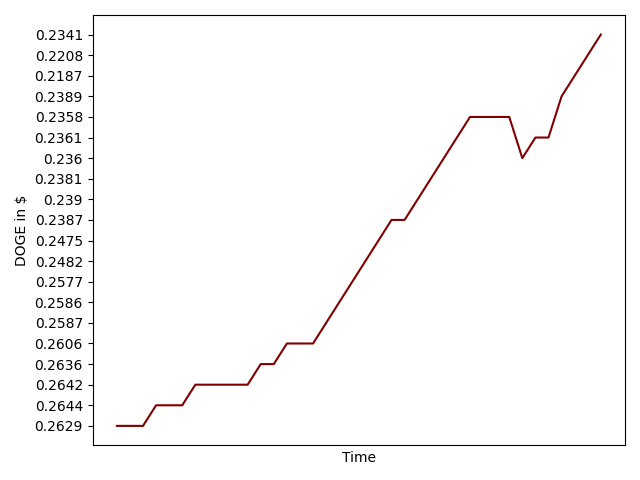
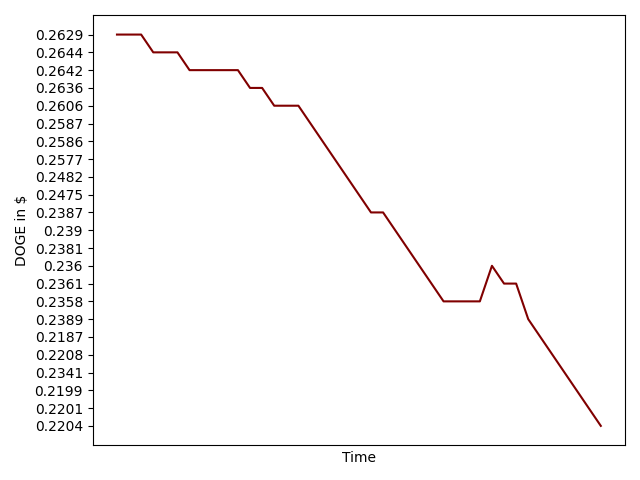
organize yaxis

diff --git a/cogs/portfolio.py b/cogs/portfolio.py
@@ -24,10 +24,9 @@ class Portfolio:
         
     def plotCoin(self, coin): # plot coin
         POT = self.crypto.child(f'{coin}/POT').get() # price over time
-        self.plot(POT, "Time", f"{coin} in $", f"static/graph/{coin}.png")
+        self.plot(POT, "Time", f"{coin} in $", f"static/graph/{coin}.png", True)
         
-        
-    def plot(self, data, xlabel, ylabel, figname):
+    def plot(self, data, xlabel, ylabel, figname, coin_true=False):
         xAxis = [key for key, value in data.items()] # list comprehension;
         yAxis = [value for key, value in data.items()] # turn firebase into lists for matplotlib axes
         plt.grid(False) # not gridded
@@ -36,6 +35,8 @@ class Portfolio:
         plt.ylabel(ylabel)
         plt.xticks(rotation=90) # technically unecessary since i stopped displaying timestamps but rip lol
         ax = plt.gca()
+        if coin_true:
+            plt.gca().invert_yaxis()
         ax.axes.xaxis.set_ticks([]) # don't display bottom timestamps
         plt.tight_layout() # show off whole graphs no cutoffs 
         plt.savefig(figname, transparent=True) #png
